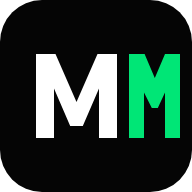
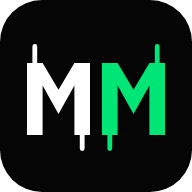
Nuova icona: due M simmetriche con gli stoppini delle candele
Claude-Session: https://claude.ai/code/session_014GfKhjQhLgT1NP7pfgPn1n

Changed region(s): [[0.125, 0.2188, 0.9375, 0.8125]]

diff --git a/sw.js b/sw.js
@@ -2,7 +2,7 @@
 // La pagina e i dati si prendono sempre dalla rete quando c'è (così l'app è aggiornata quanto il sito);
 // se la rete manca o è lenta si usa l'ultima copia salvata. Prezzi in tempo reale, widget di TradingView e
 // video non passano di qui: senza rete semplicemente non si caricano.
-const VERSIONE = 'th-v1';
+const VERSIONE = 'th-v2';
 const GUSCIO = ['./', 'scripts/fv_engine.js', 'favicon.svg', 'manifest.webmanifest', 'icons/icon-192.png'];
 const DATI_HOST = 'raw.githubusercontent.com';
 const STATICI_ESTERNI = ['cdn.jsdelivr.net', 'fonts.googleapis.com', 'fonts.gstatic.com'];
